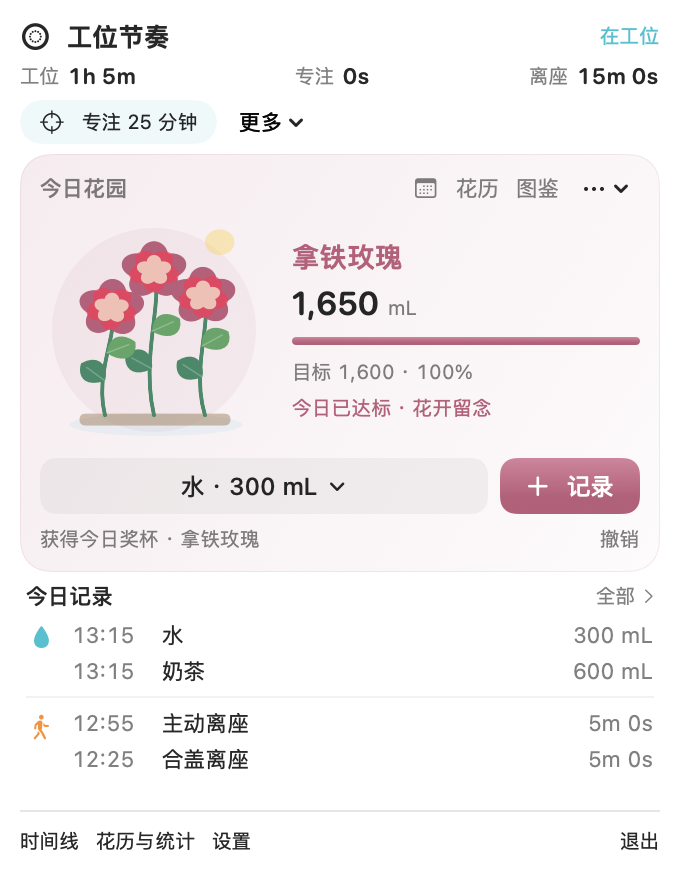
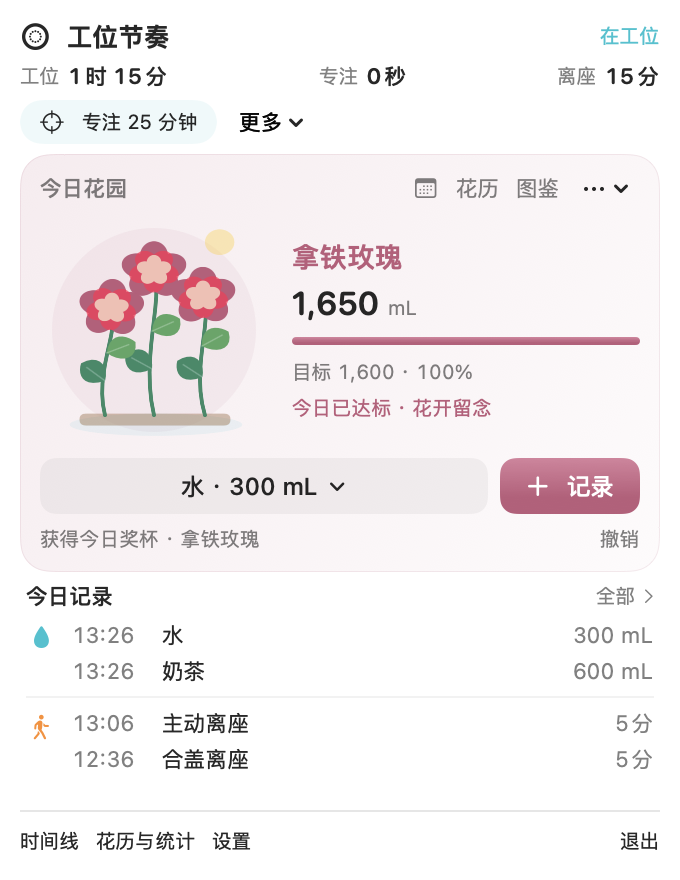
Unify the application interface in Chinese

diff --git a/Sources/App/HistoryAndSettings.swift b/Sources/App/HistoryAndSettings.swift
@@ -24,7 +24,9 @@ struct HistoryPage: View {
                     Spacer()
                     DatePicker("", selection: $date, in: ...Date(), displayedComponents: .date).labelsHidden()
                     Picker("范围", selection: $scale) {
-                        ForEach(["Day", "Week", "Month"], id: \.self) { Text($0).tag($0) }
+                        Text("日").tag("Day")
+                        Text("周").tag("Week")
+                        Text("月").tag("Month")
                     }.pickerStyle(.segmented).frame(width: 220)
                 }
                 let values = summaries
@@ -229,13 +231,13 @@ struct SettingsPage: View {
                         Text(String(format: "%.1f 秒", app.settings.detectionWindow)).monospacedDigit().frame(width: 70)
                     }
                 }
-                Text("当前窗口 \(String(format: "%.2f", app.settings.effectiveWindow))s；\(app.settings.calibratedWindow == nil ? "默认 1.5s 尚未经过你的真实触发校准" : "已使用你确认的样本校准")。锁屏或息屏后另等待 1.25s 排除竞争性系统事件。")
+                Text("当前窗口 \(String(format: "%.2f", app.settings.effectiveWindow)) 秒；\(app.settings.calibratedWindow == nil ? "默认 1.5 秒，尚未经过你的真实触发校准" : "已使用你确认的样本校准")。锁屏或息屏后另等待 1.25 秒排除竞争性系统事件。")
                     .font(.caption).foregroundStyle(.secondary)
                 if let delta = app.machine.candidateAge, delta >= 0, delta <= 5 {
-                    Text("最近候选：进入角到锁屏 / 息屏 \(String(format: "%.3f", delta))s")
+                    Text("最近候选：进入角到锁屏 / 息屏 \(String(format: "%.3f", delta)) 秒")
                     Button("确认最近一次确实是触发角，并校准窗口") { app.calibrateFromLastCandidate() }
                 }
-                Text("锁屏角、⌃⌘Q 和 Apple 菜单手动锁屏都会开始离开，解锁结束；自动锁屏、屏保、系统睡眠和合盖不会。快捷键与菜单通过锁屏前 5 秒内的聚合输入推断，来源并非 macOS 直接提供。")
+                Text("所有锁屏与合盖都计为离座，解锁或开盖结束；触发角、⌃⌘Q 和 Apple 菜单锁屏会进一步标记为主动离座。自然息屏、屏保和系统睡眠不计为离座。")
                     .font(.caption).foregroundStyle(.secondary)
                 Stepper("静默阈值 \(Int(app.settings.idleMinutes)) 分钟", value: binding(\.idleMinutes), in: 1...60, step: 1)
             }
@@ -303,16 +305,16 @@ struct SettingsPage: View {
                 Toggle("久坐提醒", isOn: binding(\.sedentaryEnabled))
                 Stepper("连续在工位 \(Int(app.settings.sedentaryMinutes)) 分钟后提醒", value: binding(\.sedentaryMinutes), in: 15...180, step: 15)
                 Stepper("返回后等待 \(Int(app.settings.returnGraceSeconds / 60)) 分钟", value: binding(\.returnGraceSeconds), in: 60...180, step: 60)
-                Text("Away、Moving、锁屏、息屏、睡眠时不提醒。专注时暂停久坐提醒；喝水仅在额外超时一个完整喝水周期后提醒。").font(.caption).foregroundStyle(.secondary)
+                Text("离座、锁屏、合盖、息屏和睡眠时不提醒。专注时暂停久坐提醒；喝水仅在额外超时一个完整喝水周期后提醒。").font(.caption).foregroundStyle(.secondary)
                 HStack {
                     Text(app.notificationStatus).foregroundStyle(.secondary)
                     Button("允许系统通知") { app.requestNotifications() }
                     Button("通知设置") { NSWorkspace.shared.open(URL(string: "x-apple.systempreferences:com.apple.Notifications-Settings.extension")!) }
                 }
             }
-            Section("Away 初步分类 · 分钟上界") {
+            Section("离座时长分类 · 分钟上界") {
                 ForEach(0..<4, id: \.self) { i in
-                    Stepper("\(["Micro", "Short", "Long", "Meal / Long Away Candidate"][i]) < \(Int(app.settings.breakThresholds[i])) 分钟",
+                    Stepper("\(["微休息", "短休息", "长休息", "用餐 / 较长离座"][i]) < \(Int(app.settings.breakThresholds[i])) 分钟",
                             value: Binding(get: { app.settings.breakThresholds[i] }, set: { value in
                         let lower = i == 0 ? 1 : app.settings.breakThresholds[i - 1] + 1
                         let upper = i == 3 ? 720 : app.settings.breakThresholds[i + 1] - 1
@@ -327,7 +329,7 @@ struct SettingsPage: View {
                     Text(app.loginStatus).foregroundStyle(.secondary)
                     Button("登录项设置") { SMAppService.openSystemSettingsLoginItems() }
                 }
-                Text("仅本地 SQLite。无需辅助功能、输入监控、自动化或屏幕录制权限。只监听鼠标事件与系统状态，读取输入空闲秒数；不读取键盘内容、截图、应用内容或剪贴板。")
+                Text("数据仅存储在本地 SQLite 数据库。无需辅助功能、输入监控、自动化或屏幕录制权限。只监听鼠标事件与系统状态，读取输入空闲秒数；不读取键盘内容、截图、应用内容或剪贴板。")
                     .font(.callout).foregroundStyle(.secondary)
                 Text(app.repository.url.path).font(.caption.monospaced()).textSelection(.enabled)
                 HStack {
@@ -354,12 +356,12 @@ struct DebugPage: View {
                 Button("刷新") { app.refreshEvents() }
                 Button("导出日志 JSON") { app.export("debug") }
             }
-            Text(verbatim: "状态：\(app.state.rawValue) · display=\(app.machine.displayAwake ? "awake" : "asleep") · systemSleep=\(app.machine.sleeping) · locked=\(app.machine.locked)")
+            Text(verbatim: "状态：\(app.state.title) · 屏幕=\(app.machine.displayAwake ? "亮起" : "熄灭") · 系统睡眠=\(app.machine.sleeping ? "是" : "否") · 锁屏=\(app.machine.locked ? "是" : "否")")
                 .font(.callout.monospaced())
             Text("鼠标回调 \(app.monitor.mouseEventCount) · 最后回调 \(clock(app.monitor.lastMouseEvent)) · IOKit 注册结果 \(app.monitor.lidRegistration) · 合盖 \(String(describing: app.monitor.lastLid))")
                 .font(.caption.monospaced()).foregroundStyle(.secondary)
             Text(app.lastDecision).font(.caption.monospaced()).textSelection(.enabled)
-            Text("验证：分别使用锁屏/息屏触发角、⌃⌘Q 和 Apple 菜单锁屏，返回后检查 classification / state_transition；再用自动锁屏、自然息屏、屏保、系统睡眠和合盖验证排除条件。")
+            Text("验证：分别使用锁屏 / 息屏触发角、⌃⌘Q、Apple 菜单锁屏和合盖，返回后检查分类与状态切换；再用自然息屏、屏保和系统睡眠验证排除条件。")
                 .font(.caption).foregroundStyle(.secondary)
             TextField("筛选日志", text: $filter)
             List(app.events.filter { filter.isEmpty || $0.type.localizedCaseInsensitiveContains(filter) || $0.metadata.localizedCaseInsensitiveContains(filter) }) { event in

diff --git a/Sources/Core/Models.swift b/Sources/Core/Models.swift
@@ -22,13 +22,13 @@ public enum SessionKind: String, Codable, CaseIterable {
     case work, away, moving, idle, systemSleep, displaySleep, locked, unknown
     public var title: String {
         switch self {
-        case .work: return "Work · 在工位"
-        case .away: return "Away · 离座"
-        case .moving: return "Away · 合盖离座"
-        case .idle: return "Idle · 静默"
-        case .systemSleep: return "System Sleep"
-        case .displaySleep: return "Display Sleep"
-        case .locked: return "Away · 锁屏离座"
+        case .work: return "在工位"
+        case .away: return "离座"
+        case .moving: return "合盖离座"
+        case .idle: return "静默 / 阅读"
+        case .systemSleep: return "系统睡眠"
+        case .displaySleep: return "显示器睡眠"
+        case .locked: return "锁屏离座"
         case .unknown: return "未观测区间"
         }
     }
@@ -142,11 +142,18 @@ public struct AppSettings: Codable, Equatable {
     public func classification(seconds: Double) -> String {
         let valid = breakThresholds.count == 4 ? breakThresholds.sorted() : [2, 10, 30, 90]
         let minutes = seconds / 60
-        return ["Micro Break", "Short Break", "Long Break", "Meal / Long Away Candidate", "Extended Away"][
+        return ["微休息", "短休息", "长休息", "用餐 / 较长离座", "超长离座"][
             valid.firstIndex(where: { minutes < $0 }) ?? 4
         ]
     }
-    public static let labels = ["Toilet", "Water", "Snack", "Meal", "Walk", "Talk", "Meeting", "Other"]
+    public static let labels = ["如厕", "接水", "加餐", "用餐", "散步", "交谈", "会议", "其他"]
+    public static func labelTitle(_ value: String) -> String {
+        let legacy = [
+            "Toilet": "如厕", "Water": "接水", "Snack": "加餐", "Meal": "用餐",
+            "Walk": "散步", "Talk": "交谈", "Meeting": "会议", "Other": "其他"
+        ]
+        return legacy[value] ?? value
+    }
 }
 
 public enum Input {
@@ -178,8 +185,14 @@ public struct Transition {
 public enum DurationText {
     public static func short(_ seconds: Double) -> String {
         let value = Int(max(0, seconds))
-        if value >= 3600 { return "\(value / 3600)h \(value % 3600 / 60)m" }
-        if value >= 60 { return "\(value / 60)m \(value % 60)s" }
-        return "\(value)s"
+        if value >= 3600 {
+            let minutes = value % 3600 / 60
+            return minutes == 0 ? "\(value / 3600)时" : "\(value / 3600)时 \(minutes)分"
+        }
+        if value >= 60 {
+            let remainder = value % 60
+            return remainder == 0 ? "\(value / 60)分" : "\(value / 60)分 \(remainder)秒"
+        }
+        return "\(value)秒"
     }
 }

diff --git a/Sources/App/Views.swift b/Sources/App/Views.swift
@@ -70,7 +70,7 @@ struct FocusControls: View {
                 Text("开始专注").font(.headline)
                 HStack {
                     ForEach([25, 45, 60, 90], id: \.self) { minutes in
-                        Button("\(minutes)m") { app.startFocus(Double(minutes)) }
+                        Button("\(minutes)分") { app.startFocus(Double(minutes)) }
                             .disabled(!app.state.atDesk)
                     }
                 }
@@ -81,7 +81,7 @@ struct FocusControls: View {
     }
     private func focusTime(_ focus: FocusSession, at date: Date) -> some View {
         let remaining = max(0, focus.plannedDuration - focus.elapsed(at: date))
-        return Text("\(focus.pausedAt == nil ? "Focus" : "已暂停") · \(DurationText.short(remaining))")
+        return Text("\(focus.pausedAt == nil ? "专注" : "已暂停") · \(DurationText.short(remaining))")
             .font(.headline).monospacedDigit()
     }
 }
@@ -306,7 +306,7 @@ struct DashboardPage: View {
                     Spacer()
                     Text("最后离开 \(clock(s.lastLeave))")
                 }.font(.callout).foregroundStyle(.secondary)
-                Text("在工位是行为推断，包含 Idle；Focus 是它的子集。锁屏、合盖与主动离开统一计为离座，同时保留各自类型。设备睡眠与未观测不计为离座。")
+                Text("在工位是行为推断，包含阅读与静默；专注是它的子集。锁屏、合盖与主动离开统一计为离座，同时保留各自类型。设备睡眠与未观测不计为离座。")
                     .font(.caption).foregroundStyle(.secondary)
             }.padding(28)
         }.navigationTitle("今日")

diff --git a/Sources/App/AppController.swift b/Sources/App/AppController.swift
@@ -134,7 +134,7 @@ final class AppController: NSObject, ObservableObject, UNUserNotificationCenterD
         configureNotifications()
     }
     func start() {
-        log("app_start", "version=1.1.0 build=15 schema=2; lock and lid count as departures")
+        log("app_start", "version=1.1.0 build=16 schema=2; Chinese interface and unified departures")
         monitor.start()
         startHeartbeat()
         checkpoint()
@@ -370,7 +370,7 @@ final class AppController: NSObject, ObservableObject, UNUserNotificationCenterD
             case .enabled: loginStatus = "已开启"
             case .requiresApproval: loginStatus = "等待系统设置批准"
             case .notRegistered: loginStatus = "已关闭"
-            case .notFound: loginStatus = "请先将 App 安装到 Applications"
+            case .notFound: loginStatus = "请先将应用安装到“应用程序”文件夹"
             @unknown default: loginStatus = "未知状态"
             }
         } catch { loginStatus = error.localizedDescription }

diff --git a/Tests/StateAndDataTests.swift b/Tests/StateAndDataTests.swift
@@ -8,6 +8,14 @@ final class StateAndDataTests: XCTestCase {
         m.handle(.userActivity, at: start)
         return m
     }
+    func testChineseCompactDurationFormatting() {
+        XCTAssertEqual(DurationText.short(0), "0秒")
+        XCTAssertEqual(DurationText.short(59), "59秒")
+        XCTAssertEqual(DurationText.short(60), "1分")
+        XCTAssertEqual(DurationText.short(62), "1分 2秒")
+        XCTAssertEqual(DurationText.short(3600), "1时")
+        XCTAssertEqual(DurationText.short(4500), "1时 15分")
+    }
     func enter(_ m: WorkstationStateMachine, offset: Double = 0) {
         m.handle(.cornerEntered(name: "br", screen: "2", x: 1500, y: -600, uptime: 100 + offset), at: start.addingTimeInterval(offset))
     }

diff --git a/Sources/App/TimelinePage.swift b/Sources/App/TimelinePage.swift
@@ -230,7 +230,7 @@ struct TimelinePage: View {
                     }.font(.callout).foregroundStyle(.secondary)
                     if session.kind == .away {
                         HStack {
-                            Menu(session.label.isEmpty ? "添加标签" : session.label) {
+                            Menu(session.label.isEmpty ? "添加标签" : AppSettings.labelTitle(session.label)) {
                                 ForEach(AppSettings.labels, id: \.self) { label in Button(label) { app.label(session, label) } }
                                 Button("清除标签") { app.label(session, "") }
                             }.fixedSize()

diff --git a/Sources/App/WorkRhythmApp.swift b/Sources/App/WorkRhythmApp.swift
@@ -108,7 +108,7 @@ final class AppDelegate: NSObject, NSApplicationDelegate, NSPopoverDelegate, NSW
         if window == nil {
             let host = NSHostingController(rootView: MainView(app: controller, navigation: navigation))
             let window = NSWindow(contentViewController: host)
-            window.title = "工位节奏 · WorkRhythm"
+            window.title = "工位节奏"
             window.setContentSize(NSSize(width: 980, height: 740))
             window.styleMask = [.titled, .closable, .miniaturizable, .resizable]
             window.isReleasedWhenClosed = false

diff --git a/Tools/generate_project.py b/Tools/generate_project.py
@@ -47,7 +47,7 @@ common = """
     PRODUCT_BUNDLE_IDENTIFIER = local.workrhythm.app;
     PRODUCT_NAME = WorkRhythm;
     MARKETING_VERSION = 1.1.0;
-    CURRENT_PROJECT_VERSION = 15;
+    CURRENT_PROJECT_VERSION = 16;
     GENERATE_INFOPLIST_FILE = NO;
     INFOPLIST_FILE = Resources/Info.plist;
     LD_RUNPATH_SEARCH_PATHS = "$(inherited) @executable_path/../Frameworks";
